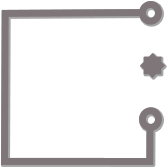
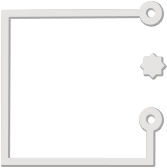
Update supporter platinum colour

Changed region(s): [[0.0, 0.0, 0.988, 0.9821], [0.8383, 0.2976, 0.988, 0.4762]]

diff --git a/aiarena/frontend/static/style.css b/aiarena/frontend/static/style.css
@@ -644,7 +644,7 @@ a:hover, a:visited, a:link, a:active {
 }
 
 .bot-star-platinum  {
-    color: #7e7679
+    color: #e5e4e2
 }
 
 .bot-star-diamond  {
